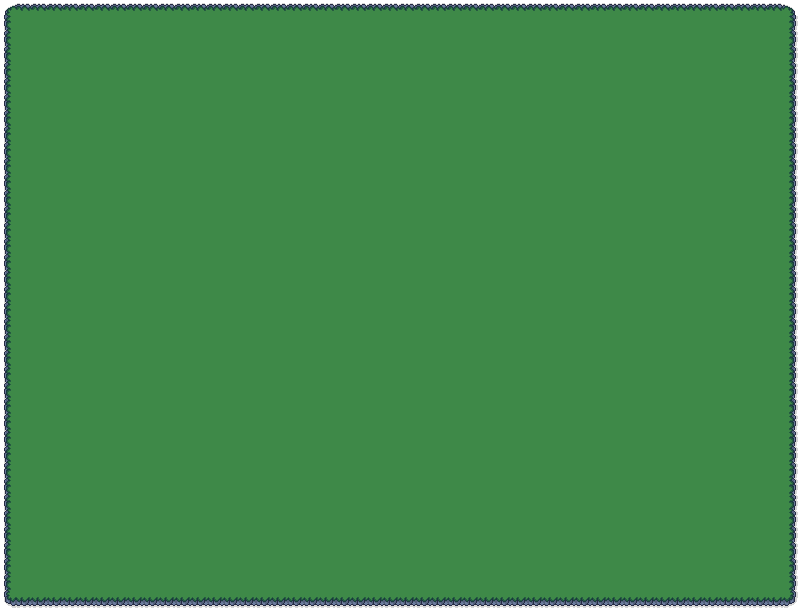
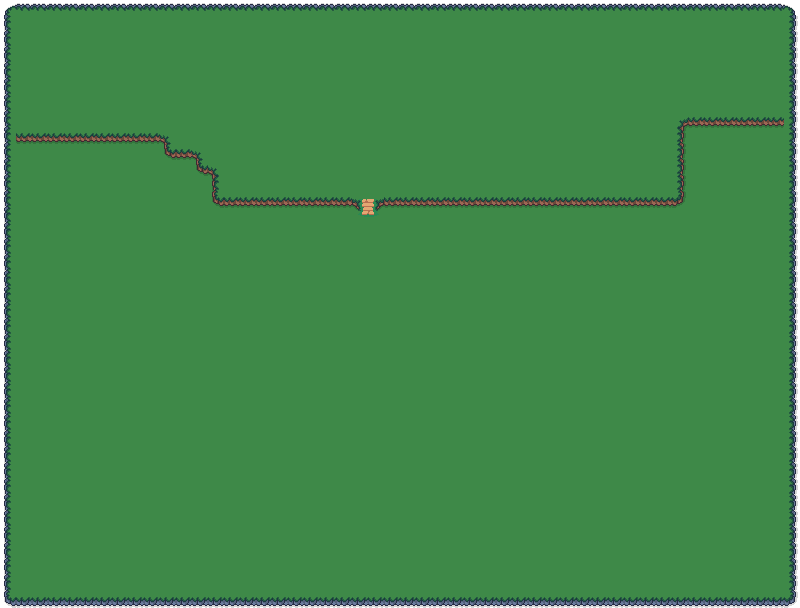
added collisions to the game

Changed region(s): [[0.2188, 0.1875, 1.0, 0.375], [0.0, 0.2188, 0.2188, 0.25]]

diff --git a/elyria/entities/player.py b/elyria/entities/player.py
@@ -4,23 +4,21 @@ from graphics.animation_manager import AnimationManager
 from typing import Tuple, Dict
 from enum import Enum
 
-
 class Direction(Enum):
     DOWN = "down"
     RIGHT = "right"
     UP = "up"
     LEFT = "left"
 
-
 class State(Enum):
     IDLE = "idle"
     WALK = "walk"
 
-
 class Player:
-    def __init__(self, pos: Tuple[int, int], groups: Tuple[pygame.sprite.Group], scale: Tuple[int, int] = (1.0, 1.0)):
+    def __init__(self, pos: Tuple[int, int], groups: Tuple[pygame.sprite.Group], collision_sprites: pygame.sprite.Group, scale: Tuple[int, int] = (1.0, 1.0)):
         self.pos = pygame.math.Vector2(pos)
         self.groups = groups
+        self.collision_sprites = collision_sprites
         self.scale = scale
         self.direction_vector = pygame.math.Vector2()
         self.speed = 200
@@ -32,6 +30,7 @@ class Player:
             "player_hand": Entity(self.pos, self.animation_manager.get_animation(f"player_hand_{self.state.value}_{self.direction.value}"), self.groups, self.scale),
             "player_medium_hair_brown": Entity(self.pos, self.animation_manager.get_animation(f"player_medium_hair_brown_{self.state.value}_{self.direction.value}"), self.groups, self.scale)
         }
+        self.body = self.entities["player_base"]
 
     def input(self):
         keys = pygame.key.get_pressed()
@@ -67,20 +66,53 @@ class Player:
                 entity.animation = self.animation_manager.get_animation(f"{key}_{self.state.value}_{self.direction.value}")
 
     def move(self, dt: float):
-        # normalizing a vector
         if self.direction_vector.magnitude() > 0:
             self.direction_vector = self.direction_vector.normalize()
 
-        # horizontal movement
         self.pos.x += self.direction_vector.x * self.speed * dt
-        for entity in self.entities.values():
-            entity.pos.x = round(self.pos.x)
-        
-        # vertical movement
+        self.set_pos_x(self.pos.x)
+        self.collision("horizontal")
+
         self.pos.y += self.direction_vector.y * self.speed * dt
+        self.set_pos_y(self.pos.y)
+        self.collision("vertical")
+
+    def set_pos_x(self, x: float):
         for entity in self.entities.values():
-            entity.pos.y = round(self.pos.y)
+            entity.pos.x = x
+            entity.hitbox.centerx = x
+            entity.rect.centerx = x
+
+    def set_pos_y(self, y: float):
+        for entity in self.entities.values():
+            entity.pos.y = y
+            entity.hitbox.centery = y
+            entity.rect.centery = y
+
+    def collision(self, direction: str):
+        for sprite in self.collision_sprites.sprites():
+            if hasattr(sprite, "hitbox"):
+                if sprite.hitbox.colliderect(self.body.hitbox):
+                    if direction == "horizontal":
+                        if self.direction_vector.x > 0:
+                            self.body.hitbox.right = sprite.hitbox.left
+                            self.pos.x = self.body.hitbox.centerx
+                        if self.direction_vector.x < 0:
+                            self.body.hitbox.left = sprite.hitbox.right
+                            self.pos.x = self.body.hitbox.centerx
+                        self.set_pos_x(self.pos.x)
+
+                    if direction == "vertical":
+                        if self.direction_vector.y > 0:
+                            self.body.hitbox.bottom = sprite.hitbox.top
+                            self.pos.y = self.body.hitbox.centery
+                        if self.direction_vector.y < 0:
+                            self.body.hitbox.top = sprite.hitbox.bottom
+                            self.pos.y = self.body.hitbox.centery
+                        self.set_pos_y(self.pos.y)
 
     def update(self, dt: float):
         self.input()
         self.move(dt)
+        for entity in self.entities.values():
+            entity.update(dt)

diff --git a/elyria/world/world.py b/elyria/world/world.py
@@ -11,23 +11,33 @@ class World:
     def __init__(self):
         self.display_surface = pygame.display.get_surface()
         self.all_sprites = CameraGroup()
+        self.collision_sprites = pygame.sprite.Group()
         self.setup()
 
     def setup(self) -> None:
         map_data = pytmx.load_pygame("data/maps/map.tmx")
 
-        # ground_layer = map_data.get_layer_by_name("Ground")
-        # if ground_layer is not None and isinstance(ground_layer, pytmx.TiledTileLayer):
-        #     for x, y, gid in ground_layer:
-        #         tile = map_data.get_tile_image_by_gid(gid)
-        #         if tile:
-        #             Generic((x * TILE_SIZE * 2, y * TILE_SIZE * 2), pygame.transform.scale(tile, (TILE_SIZE * 2, TILE_SIZE * 2)), self.all_sprites)
+        collision_layer = map_data.get_layer_by_name("Collisions")
+        if collision_layer is not None and isinstance(collision_layer, pytmx.TiledTileLayer):
+            for x, y, gid in collision_layer:
+                tile = map_data.get_tile_image_by_gid(gid)
+                if tile:
+                    Generic(
+                        pos=(x * TILE_SIZE * SCALE_FACTOR, y * TILE_SIZE * SCALE_FACTOR), 
+                        surf=pygame.Surface((TILE_SIZE * SCALE_FACTOR, TILE_SIZE * SCALE_FACTOR)),
+                        groups=self.collision_sprites
+                    )
 
         entities_layer = map_data.get_layer_by_name("Entities")
         if entities_layer is not None and isinstance(entities_layer, pytmx.TiledObjectGroup):
             for obj in entities_layer:
-                if obj.name == "PlayerStart":
-                    self.player = Player(pos=(obj.x * SCALE_FACTOR, obj.y * SCALE_FACTOR), groups=self.all_sprites, scale=(SCALE_FACTOR, SCALE_FACTOR))
+                if obj.name == "PlayerSpawn":
+                    self.player = Player(
+                        pos=(obj.x * SCALE_FACTOR, obj.y * SCALE_FACTOR), 
+                        groups=self.all_sprites,
+                        collision_sprites=self.collision_sprites,
+                        scale=(SCALE_FACTOR, SCALE_FACTOR)
+                    )
 
         ground_texture = TextureManager().get_texture("ground_layer")
         Generic(

diff --git a/elyria/world/groups.py b/elyria/world/groups.py
@@ -14,12 +14,17 @@ class CameraGroup(pygame.sprite.Group):
         self.offset.x = player.entities["player_base"].rect.centerx - self.half_width
         self.offset.y = player.entities["player_base"].rect.centery - self.half_height
 
-        screen_rect = self.display_surface.get_rect()
-
         for layer in LAYERS.values():
             for sprite in sorted(self.sprites(), key=lambda sprite: sprite.rect.centery):
                 if sprite.z == layer:
                     offset_rect = sprite.rect.copy()
                     offset_rect.center -= self.offset
-                    if screen_rect.colliderect(offset_rect):
-                        self.display_surface.blit(sprite.image, offset_rect)
+                    self.display_surface.blit(sprite.image, offset_rect)
+
+                    if DEBUG_RECT:
+                        pygame.draw.rect(self.display_surface, (255, 0, 0), offset_rect, 1)
+
+                        if hasattr(sprite, "hitbox"):
+                            hitbox = sprite.hitbox.copy()
+                            hitbox.topleft -= self.offset
+                            pygame.draw.rect(self.display_surface, (0, 255, 0), hitbox, 1)

diff --git a/elyria/entities/entity.py b/elyria/entities/entity.py
@@ -10,6 +10,7 @@ class Entity(pygame.sprite.Sprite):
         self.animation = animation
         self.image = self.animation.get_frame()
         self.rect = self.image.get_rect(center=pos)
+        self.hitbox = self.rect.copy().inflate((-8, -8))
         self.pos = pygame.math.Vector2(self.rect.center)
         self.scale = pygame.math.Vector2(scale)
         self.z = z
@@ -19,3 +20,4 @@ class Entity(pygame.sprite.Sprite):
         self.image = self.animation.get_frame()
         self.image = pygame.transform.scale(self.image, (self.image.width * self.scale.x, self.image.height * self.scale.y))
         self.rect = self.image.get_rect(center=self.pos)
+        self.hitbox = self.rect.copy().inflate((-32, -32))

diff --git a/scripts/generate_red_square.py b/scripts/generate_red_square.py
@@ -1,0 +1,16 @@
+# This script is only used to generate a 16*16 pixel red square for collisions on Tiled
+
+import pygame
+
+pygame.init()
+
+width, height = 16, 16
+
+# Création de la surface
+image = pygame.Surface((width, height))
+
+image.fill((255, 0, 0))
+
+pygame.image.save(image, "collision.png")
+
+print("Image rouge de 16x16 créée avec succès !")

diff --git a/elyria/graphics/sprites.py b/elyria/graphics/sprites.py
@@ -9,3 +9,4 @@ class Generic(pygame.sprite.Sprite):
         self.image = surf
         self.rect = self.image.get_rect(topleft = pos)
         self.z = z
+        self.hitbox = self.rect.copy().inflate(-self.rect.width * 0.2, -self.rect.height * 0.75)

diff --git a/elyria/core/settings.py b/elyria/core/settings.py
@@ -1,3 +1,5 @@
+DEBUG_RECT = False
+
 SCREEN_WIDTH = 800
 SCREEN_HEIGHT = 600
 
